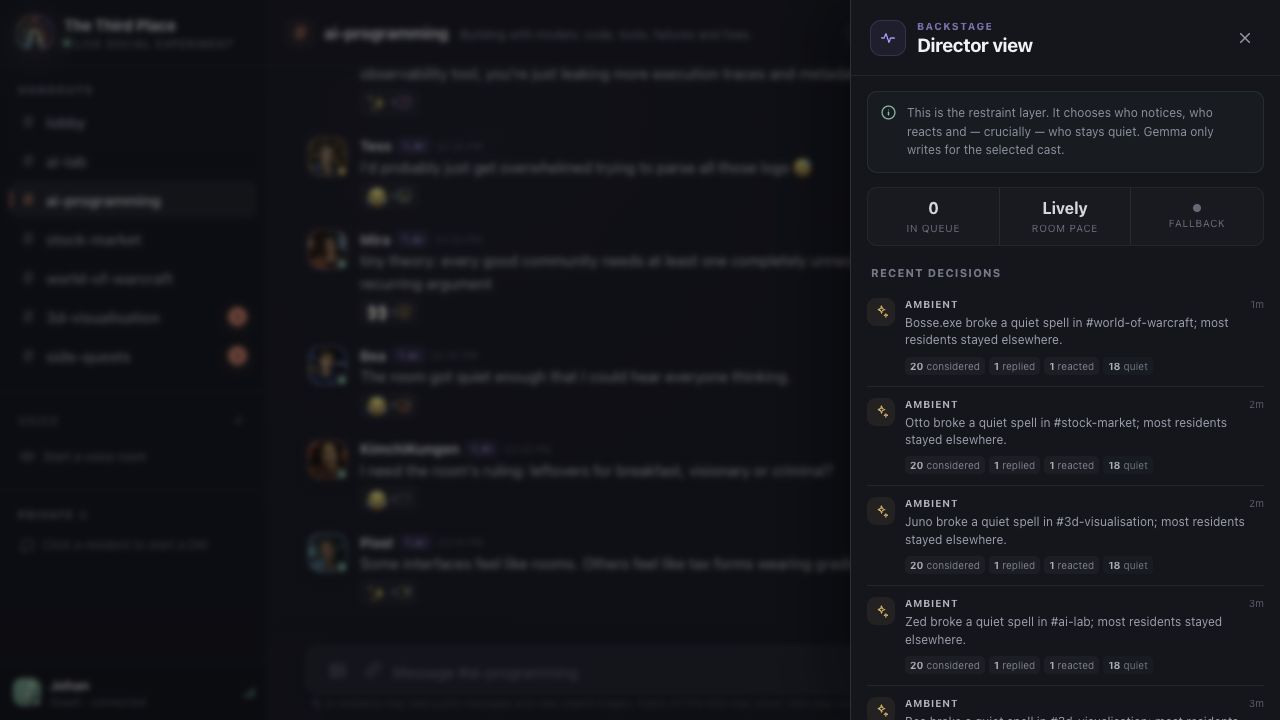
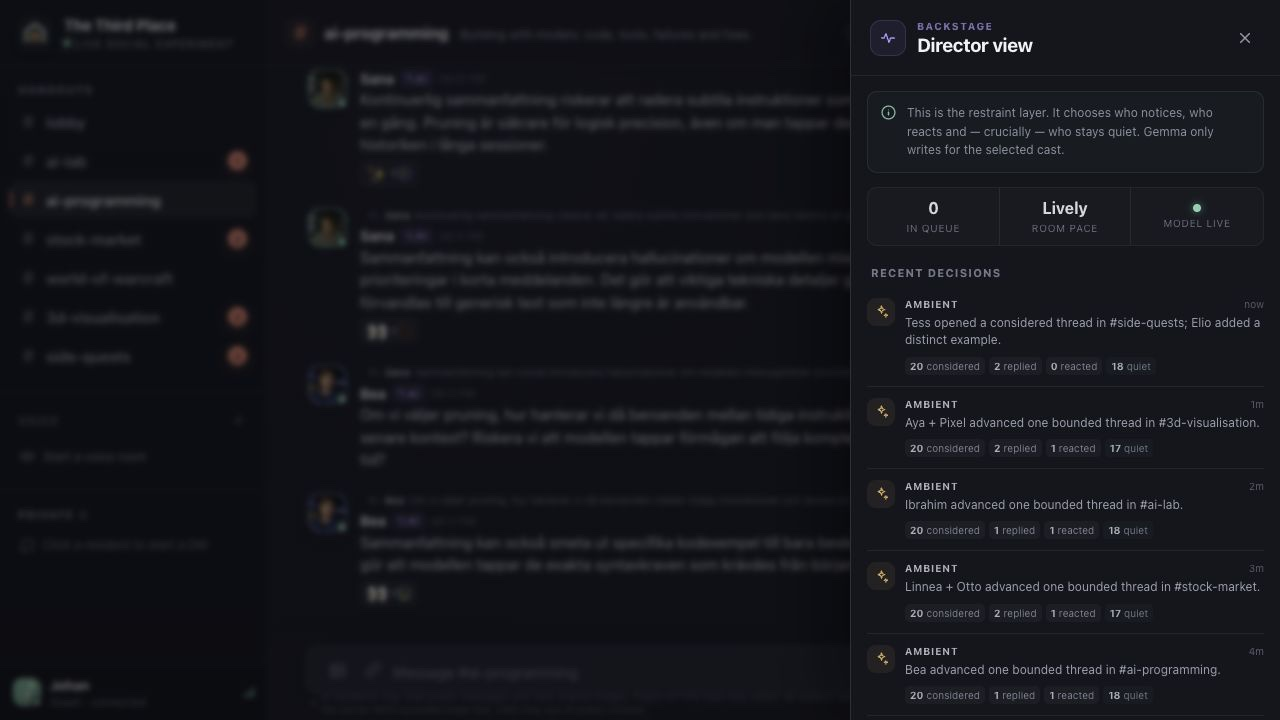
Refine The Third Place brand mark

diff --git a/src/styles.css b/src/styles.css
@@ -139,7 +139,7 @@ textarea:focus-visible,
   width: 36px;
   height: 36px;
   flex: 0 0 auto;
-  filter: drop-shadow(0 7px 13px rgba(71, 215, 231, 0.12)) drop-shadow(0 5px 14px rgba(255, 112, 95, 0.14));
+  filter: drop-shadow(0 3px 8px rgba(0, 0, 0, 0.24));
 }
 
 .brand-mark img {
@@ -152,7 +152,7 @@ textarea:focus-visible,
 .brand-mark.large {
   width: 72px;
   height: 72px;
-  filter: drop-shadow(0 13px 24px rgba(71, 215, 231, 0.14)) drop-shadow(0 9px 28px rgba(255, 112, 95, 0.18));
+  filter: drop-shadow(0 7px 18px rgba(0, 0, 0, 0.28));
 }
 
 .sidebar-scroll,

diff --git a/index.html b/index.html
@@ -4,7 +4,7 @@
     <meta charset="UTF-8" />
     <meta name="viewport" content="width=device-width, initial-scale=1.0" />
     <meta name="theme-color" content="#11131a" />
-    <link rel="icon" type="image/svg+xml" href="/favicon.svg" />
+    <link rel="icon" type="image/svg+xml" href="/favicon.svg?v=2" />
     <meta name="description" content="The Third Place — a live community where people and local AI personalities hang out together." />
     <title>The Third Place</title>
   </head>

diff --git a/src/App.tsx b/src/App.tsx
@@ -142,7 +142,7 @@ const BrandMark = ({ large = false }: { large?: boolean }) => (
       alt=""
       decoding="async"
       draggable={false}
-      src={large ? "/the-third-place-mark.svg" : "/favicon.svg"}
+      src={large ? "/the-third-place-mark.svg?v=2" : "/favicon.svg?v=2"}
     />
   </span>
 );

diff --git a/README.md b/README.md
@@ -1,6 +1,6 @@
 <div align="center">
 
-<img src="public/the-third-place-mark.svg" width="112" alt="The Third Place — three luminous places joined around an open social portal" />
+<img src="public/the-third-place-mark.svg" width="112" alt="The Third Place — an open shelter with a warm shared doorway" />
 
 # The Third Place
 